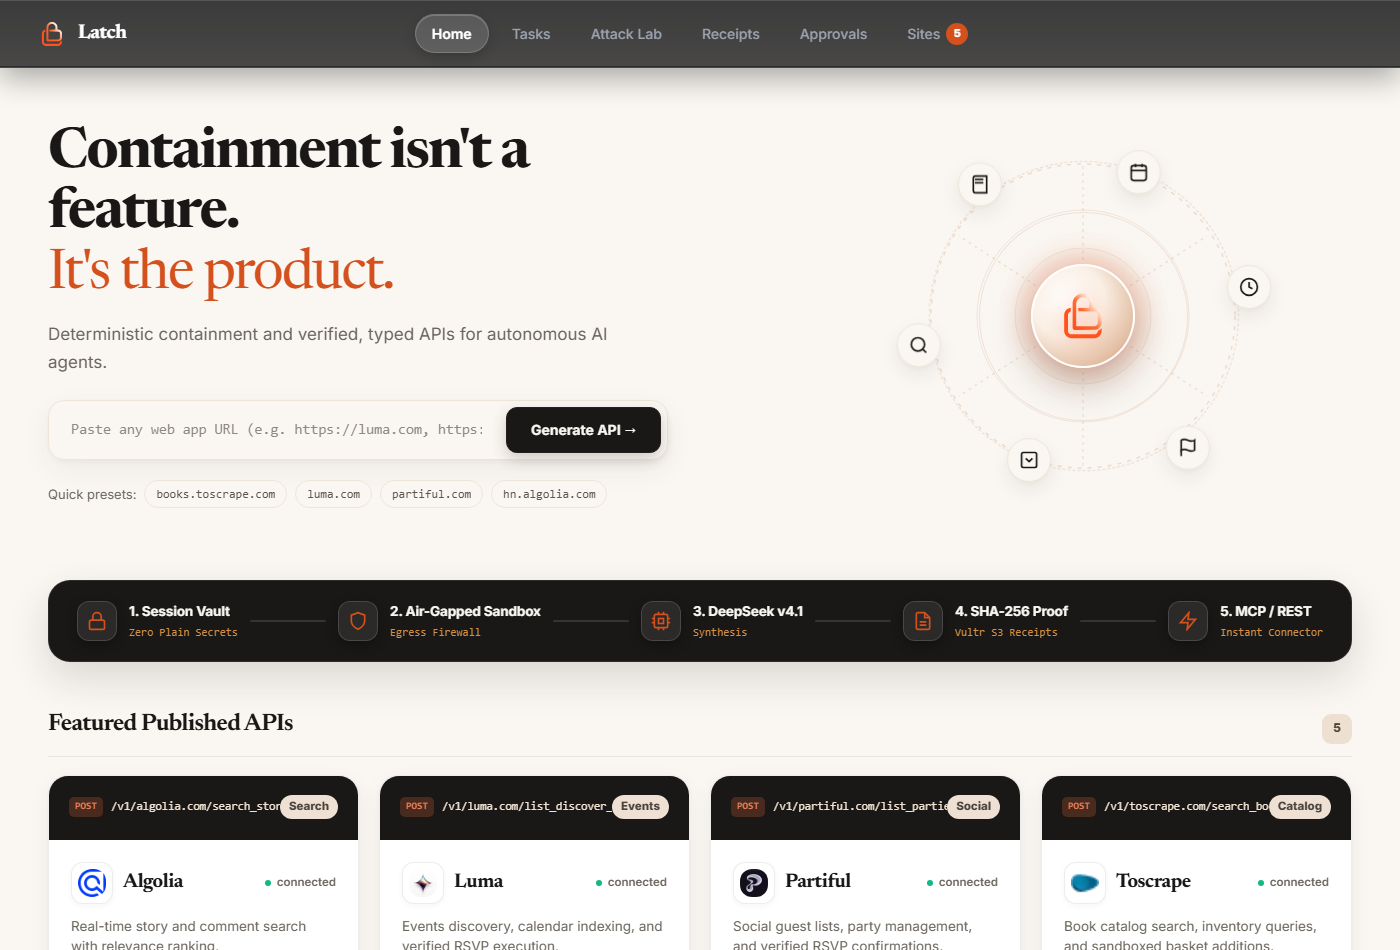
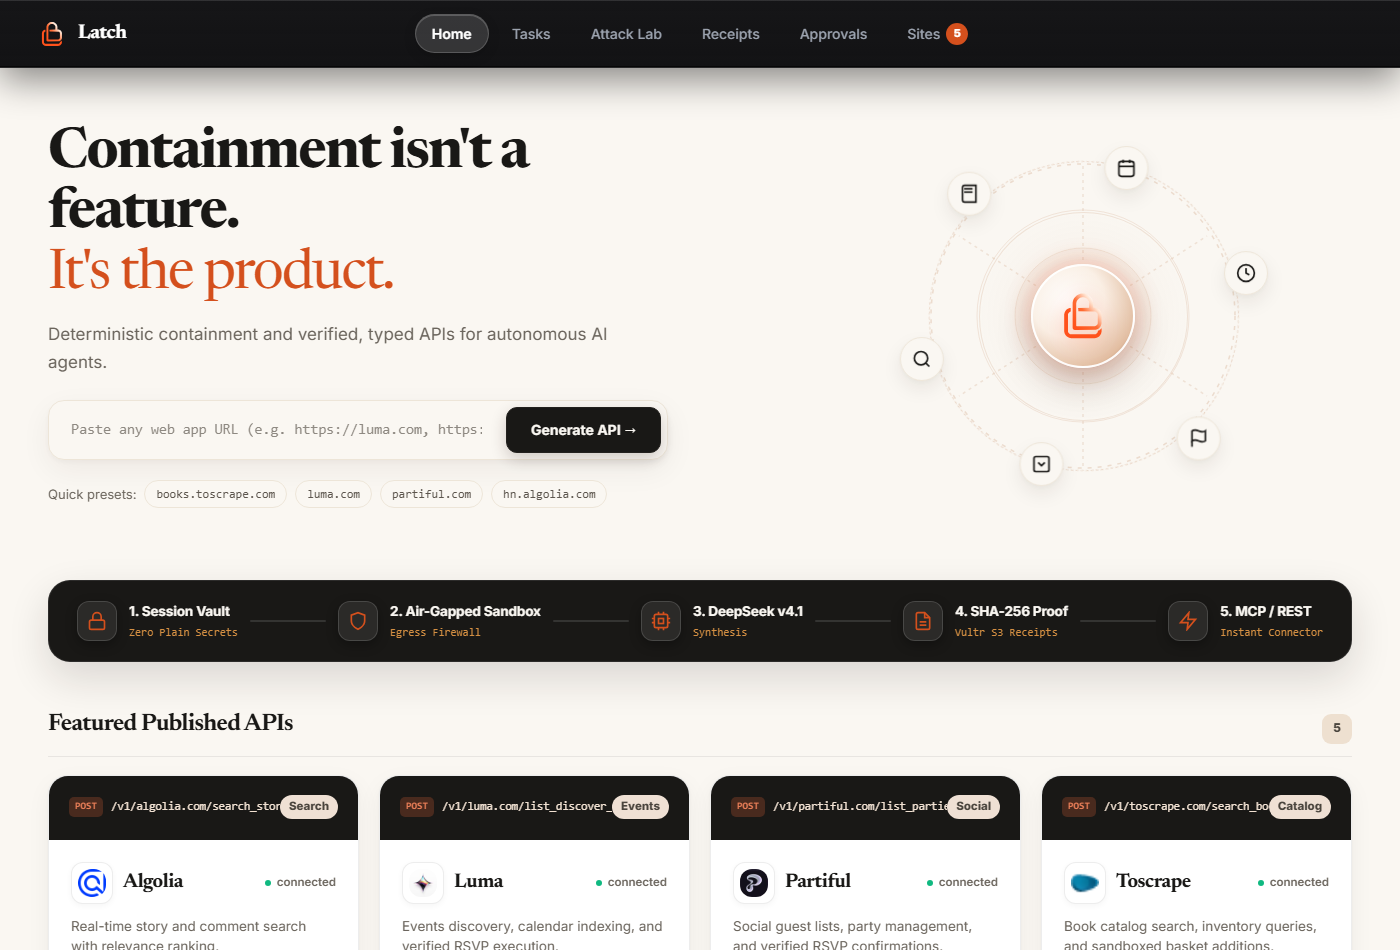
style(navbar): tune navbar to deep obsidian black matching project aesthetic

diff --git a/control/latch/web/static/app.css b/control/latch/web/static/app.css
@@ -112,15 +112,15 @@ code, .mono { font-family: var(--font-mono); }
   left: 0;
   right: 0;
   height: 68px;
-  background: linear-gradient(180deg, rgba(16, 17, 20, 0.82) 0%, rgba(9, 10, 12, 0.74) 100%);
+  background: linear-gradient(180deg, rgba(12, 12, 14, 0.96) 0%, rgba(6, 6, 8, 0.95) 100%);
   border-bottom: 1px solid rgba(255, 255, 255, 0.08);
-  box-shadow: inset 0 1px 0 0 rgba(255, 255, 255, 0.14), inset 0 -1px 0 0 rgba(0, 0, 0, 0.4), 0 10px 30px rgba(0, 0, 0, 0.32);
+  box-shadow: inset 0 1px 0 0 rgba(255, 255, 255, 0.12), inset 0 -1px 0 0 rgba(0, 0, 0, 0.6), 0 12px 36px rgba(0, 0, 0, 0.45);
   z-index: 100;
   display: flex;
   align-items: center;
   justify-content: center;
-  backdrop-filter: blur(24px) saturate(200%);
-  -webkit-backdrop-filter: blur(24px) saturate(200%);
+  backdrop-filter: blur(20px) saturate(180%);
+  -webkit-backdrop-filter: blur(20px) saturate(180%);
   transition: transform 0.36s cubic-bezier(0.16, 1, 0.3, 1), background 0.3s ease, box-shadow 0.3s ease;
   will-change: transform;
 }
